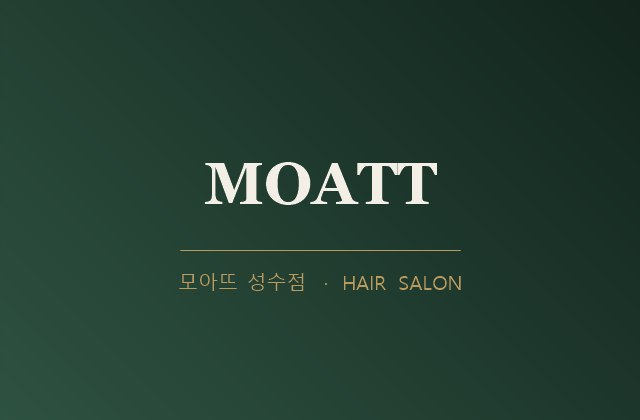
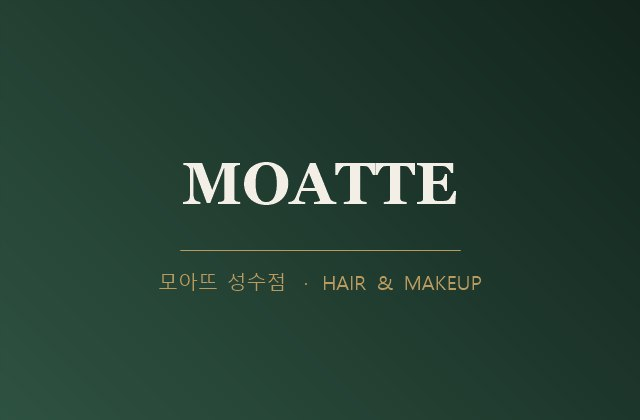
모아뜨 영문표기 MOATTE 수정 + 썸네일 교체

Changed region(s): [[0.2812, 0.3714, 0.7188, 0.4952], [0.25, 0.65, 0.75, 0.7119]]

diff --git a/index.html b/index.html
@@ -1509,7 +1509,7 @@ const HOSPS=[
   {kr:"준오헤어 코엑스도심공항점",en:"JUNO Hair COEX CALT",zh:"JUNO Hair COEX都心机场店",dept_kr:"헤어살롱",dept_zh:"美发沙龙",dept_en:"Hair Salon",cat:'기타서비스',icon:"✂",badge:'NEW',treats_kr:["컷·스타일링","염색","펌","헤어 클리닉","두피 스파"],treats_zh:["剪发造型","染发","烫发","头发护理","头皮SPA"],treats_en:["Cut & Styling","Color","Perm","Hair Clinic","Scalp Spa"],hours:'',link:"https://www.beautyhairsalon.kr/ko",loc:"loc_gangnam",overview_zh:"JUNO Hair COEX都心机场店是1982年创立的韩国代表美发连锁JUNO Hair的COEX分店。提供剪·染·烫·护理·头皮SPA，每天09:30-21:00营业，可英文咨询，外国顾客使用便利。",overview_ko:"준오헤어 코엑스도심공항점은 1982년 시작된 대한민국 대표 헤어 프랜차이즈 준오헤어의 코엑스 지점입니다. 컷·염색·펌·클리닉·두피 스파를 제공하며 매일 09:30~21:00 영업, 영어 상담이 가능해 외국인 고객이 이용하기 편리합니다.",overview_en:"JUNO Hair COEX CALT is the COEX branch of JUNO Hair, Korea’s leading hair franchise since 1982. Cut, color, perm, hair clinic and scalp spa — open daily 09:30-21:00, with English consultations available."},
   {kr:"에코자르딘 코엑스 삼성점",en:"ECO JARDIN COEX Samseong",zh:"ECO JARDIN COEX三成店",dept_kr:"헤어살롱",dept_zh:"美发沙龙",dept_en:"Hair Salon",cat:'기타서비스',icon:"🌿",badge:'NEW',treats_kr:["컷·스타일링","염색","펌","트리트먼트"],treats_zh:["剪发造型","染发","烫发","护理"],treats_en:["Cut & Styling","Color","Perm","Treatment"],hours:'',link:"https://www.youtube.com/@ecojardincoexsamsungbranch",loc:"loc_gangnam",overview_zh:"ECO JARDIN COEX三成店位于COEX内，提供剪·染·烫·护理服务，可与购物·展会行程轻松衔接。",overview_ko:"에코자르딘 코엑스 삼성점은 코엑스에 위치한 헤어살롱으로, 컷·염색·펌·트리트먼트를 제공합니다. 쇼핑·전시 일정과 함께 이용하기 좋은 접근성이 강점입니다.",overview_en:"ECO JARDIN COEX Samseong is a hair salon inside COEX offering cut, color, perm and treatments — easy to combine with shopping or exhibition schedules."},
   {kr:"카마스튜디오",en:"KAMA Studio",zh:"KAMA摄影工作室",dept_kr:"사진 스튜디오",dept_zh:"摄影工作室",dept_en:"Photo Studio",cat:'기타서비스',icon:"📸",badge:'NEW',treats_kr:["웨딩 촬영","프로필 촬영","화보 촬영","가족 촬영"],treats_zh:["婚纱摄影","形象照拍摄","写真拍摄","家庭摄影"],treats_en:["Wedding Shoots","Profile Shoots","Editorial Shoots","Family Shoots"],hours:'',link:"https://www.kamastudio.co.kr/",loc:"loc_apgujeong",overview_zh:"KAMA摄影工作室位于清潭洞，以“光之艺术”为理念，专注婚纱·形象照·写真拍摄，拥有丰富的艺人·偶像写真拍摄经验。",overview_ko:"카마스튜디오(KAMA Studio)는 청담동의 사진 스튜디오로, \"빛의 예술\"을 모토로 웨딩·프로필·화보 촬영을 전문으로 합니다. 연예인·아이돌 화보 촬영 경험이 풍부합니다.",overview_en:"KAMA Studio, in Cheongdam-dong, specializes in wedding, profile and editorial photography under the motto “the art of light”, with extensive experience shooting celebrities and idols."},
-  {kr:"모아뜨 성수점",en:"MOATT Seongsu",zh:"MOATT 圣水店",dept_kr:"헤어살롱",dept_zh:"美发沙龙",dept_en:"Hair Salon",cat:'기타서비스',icon:"💇",badge:'NEW',treats_kr:["커트·펌","염색·클리닉","슬릭펌·맨즈컷","1:1 맞춤 스타일링"],treats_zh:["剪发·烫发","染发·护理","丝滑烫·男士剪发","1:1定制造型"],treats_en:["Cut & Perm","Color & Clinic","Slick Perm & Men's Cut","1:1 Personal Styling"],hours:'10:00~18:00 (월요일 휴무)',link:"https://map.naver.com/p/entry/place/1902188156",loc:"loc_seongsu",overview_zh:"MOATT圣水店是位于首尔林·纛岛站附近的私密高端美发沙龙。通过1:1咨询为顾客提案最合适的发型，仅使用高端产品。采取预约制，可配合施术·拍摄日程安排造型。(周一休)",overview_ko:"모아뜨 성수점은 서울숲·뚝섬역 인근의 프라이빗 프리미엄 헤어살롱입니다. 1:1 상담으로 고객에게 가장 잘 어울리는 스타일을 제안하고 프리미엄 제품만 사용합니다. 시술·촬영 일정에 맞춘 헤어 스타일링을 예약제로 진행합니다. (월요일 휴무)",overview_en:"MOATT Seongsu is a private premium hair salon near Seoul Forest and Ttukseom Station. Through 1:1 consultations it proposes the most flattering style for each client, using premium products only. Sessions are by reservation and can be scheduled around your treatments or photo shoots. (Closed Mondays)"},
+  {kr:"모아뜨 성수점",en:"MOATTE Seongsu",zh:"MOATTE 圣水店",dept_kr:"헤어살롱",dept_zh:"美发沙龙",dept_en:"Hair Salon",cat:'기타서비스',icon:"💇",badge:'NEW',treats_kr:["커트·펌","염색·클리닉","슬릭펌·맨즈컷","1:1 맞춤 스타일링"],treats_zh:["剪发·烫发","染发·护理","丝滑烫·男士剪发","1:1定制造型"],treats_en:["Cut & Perm","Color & Clinic","Slick Perm & Men's Cut","1:1 Personal Styling"],hours:'10:00~18:00 (월요일 휴무)',link:"https://map.naver.com/p/entry/place/1902188156",loc:"loc_seongsu",overview_zh:"MOATTE圣水店是位于首尔林·纛岛站附近的私密高端美发沙龙。通过1:1咨询为顾客提案最合适的发型，仅使用高端产品。采取预约制，可配合施术·拍摄日程安排造型。(周一休)",overview_ko:"모아뜨 성수점은 서울숲·뚝섬역 인근의 프라이빗 프리미엄 헤어살롱입니다. 1:1 상담으로 고객에게 가장 잘 어울리는 스타일을 제안하고 프리미엄 제품만 사용합니다. 시술·촬영 일정에 맞춘 헤어 스타일링을 예약제로 진행합니다. (월요일 휴무)",overview_en:"MOATTE Seongsu is a private premium hair salon near Seoul Forest and Ttukseom Station. Through 1:1 consultations it proposes the most flattering style for each client, using premium products only. Sessions are by reservation and can be scheduled around your treatments or photo shoots. (Closed Mondays)"},
   {kr:'헤어온의원',en:'HairON Clinic',zh:'HairON脱发医院',dept_kr:'탈모 치료 전문',dept_zh:'脱发治疗专科',dept_en:'Hair Loss Clinic',cat:'피부',icon:'💇',badge:'NEW',badgePk:true,treats_kr:['줄기세포 탈모치료','헤어온 FolliOn 주사','두피 순환 개선 주사','두피·모낭 정밀검사','약물치료'],treats_zh:['干细胞脱发治疗','FolliOn毛囊强化针','头皮循环改善注射','头皮·毛囊精密检查','药物治疗'],treats_en:['Stem Cell Hair Loss Treatment','FolliOn Scalp Injection','Scalp Circulation Injection','Scalp & Follicle Diagnosis','Medication'],hours:'Mon-Fri 10:00-20:00 / Sat 10:00-15:00 / Sun·Holiday Closed',link:'https://haironclinic.com/',loc:'loc_gangnam',overview_zh:'HairON脱发医院位于江南站6号出口附近(江南大路373, 弘宇大厦3层), 是脱发治疗专科医院。由内科专科医生孙亨坤院长通过问诊·头皮毛囊检查·血液检查·自主神经检查四步精密诊断找出脱发原因, 并结合干细胞脱发治疗·FolliOn毛囊强化针·头皮循环改善注射·药物治疗进行个性化治疗。',overview_ko:'헤어온의원은 강남역 6번 출구 인근(강남대로 373, 홍우빌딩 3층)의 탈모 치료 전문 의원입니다. 내과 전문의 손형곤 원장이 문진·두피모낭검사·혈액검사·자율신경검사 4단계 정밀 진단으로 탈모 원인을 찾고, 줄기세포 탈모치료·FolliOn 모낭강화주사·두피 순환 개선 주사·약물치료를 원인에 맞게 조합합니다.',overview_en:'HairON Clinic, near Exit 6 of Gangnam Station (3F Hongwoo Bldg., 373 Gangnam-daero), is a hair-loss specialty clinic. Dr. Son Hyung-gon, an internal medicine specialist, identifies the cause through a 4-step diagnosis (consultation, scalp/follicle exam, blood test, autonomic nerve test) and combines stem cell therapy, FolliOn scalp injections, scalp circulation injections and medication.'},
   {kr:'오크우드봄의원',en:'Oakwood Bom Clinic',zh:'Oakwood Bom医院',dept_kr:'산부인과·성형외과·피부·검진 협진',dept_zh:'妇科·整形·皮肤·体检联合诊疗',dept_en:'OB/GYN · Plastic · Skin · Checkup',cat:'여성의학/성형외과/피부/검진',icon:'🌸',badge:'NEW',badgePk:true,treats_kr:['자궁보존 치료(하이푸)','여성성형·요실금','하지정맥류','눈·코성형','필러·보톡스·리프팅','건강검진'],treats_zh:['子宫保留治疗(海扶刀)','女性私密整形·尿失禁','下肢静脉曲张','眼鼻整形','玻尿酸·肉毒·提升','健康体检'],treats_en:['Uterus-Preserving Treatment (HIFU)','Feminine Surgery · Incontinence','Varicose Veins','Eye · Nose Surgery','Filler · Botox · Lifting','Health Checkup'],hours:'Mon·Wed·Thu 10:00-19:00 / Tue·Fri 10:00-20:00 / Sat 10:00-16:00 / Sun Closed',link:'https://owbomclinic.com/',loc:'loc_gangnam',overview_zh:'Oakwood Bom医院位于三成站Oakwood Premier酒店B1(德黑兰路87街46), 是多科室联合诊疗医院。以妇科专科医生·医学博士金仁贤代表院长(原江南CHA医院妇科部长)为核心, 胸外科·外科·内科·整形外科专科医生共同诊疗, 子宫保留海扶刀·女性私密整形·下肢静脉曲张·健康体检到眼鼻整形·玻尿酸·提升, 体检·门诊·手术一站式完成。',overview_ko:'오크우드봄의원은 삼성역 오크우드프리미어 호텔 B1(테헤란로87길 46)에 위치한 협진형 의원으로, 산부인과 전문의 김인현 대표원장(前 강남차병원 산부인과 부장)을 중심으로 흉부외과·외과·내과·성형외과 전문의가 함께 진료합니다. 자궁보존 하이푸·여성성형·하지정맥류·건강검진부터 눈코성형·필러·리프팅까지 한 곳에서 검진·외래·수술이 가능합니다.',overview_en:'Oakwood Bom Clinic, on B1 of Oakwood Premier Hotel by Samseong Station (46 Teheran-ro 87-gil), is a multi-specialty clinic led by Dr. Kim In-hyun, OB/GYN specialist and former head of OB/GYN at Gangnam CHA Hospital, together with thoracic, general, internal medicine and plastic surgery specialists — from uterus-preserving HIFU, feminine surgery, varicose veins and health checkups to eye/nose surgery, fillers and lifting, all in one place.'},
   {kr:'이에스청담성형외과',en:'ES Cheongdam Plastic Surgery',zh:'ES清潭整形外科',dept_kr:'성형외과/피부과',dept_zh:'整形外科/皮肤科',dept_en:'Plastic Surgery / Dermatology',cat:'성형외과/피부',icon:'💎',badge:'NEW',badgePk:true,treats_kr:['눈성형·눈재수술','코성형·코재수술','이마거상·리프팅','가슴성형','지방흡입·지방이식','보톡스·필러'],treats_zh:['眼部整形·眼修复','鼻整形·鼻修复','额头提升·提升','胸部整形','吸脂·脂肪填充','肉毒·玻尿酸'],treats_en:['Eye Surgery · Revision','Rhinoplasty · Revision','Forehead Lift · Lifting','Breast Surgery','Liposuction · Fat Graft','Botox · Filler'],hours:'Mon-Fri 10:00-19:00 / Sat 10:00-16:00 / Sun·Holiday Closed',link:'https://escheongdam.co.kr/',loc:'loc_apgujeong',overview_zh:'ES清潭整形外科&皮肤科位于狎鸥亭罗德奥站4号出口附近(岛山大路435, 三二大厦6层)。顺天乡大学医院整形外科外聘教授李俊浩代表院长与柳亨来院长(整形外科专科医生)亲自主刀自然粘连双眼皮·高难度眼修复、鼻修复、额头提升·提升、胸部·体型整形, 皮肤中心同时提供提升激光·皮肤焕活·肉毒·玻尿酸项目。',overview_ko:'이에스청담성형외과&피부과의원은 압구정로데오역 4번 출구 인근(도산대로 435, 삼이빌딩 6층)의 성형외과·피부과 의원입니다. 순천향대학교병원 성형외과 외래교수인 이준호 대표원장과 류형래 원장(성형외과 전문의)이 자연유착 쌍꺼풀·고난도 눈재수술, 코재수술, 이마거상·리프팅, 가슴·체형성형을 직접 집도하며 피부센터에서 리프팅 레이저·스킨부스터·보톡스·필러를 함께 제공합니다.',overview_en:'ES Cheongdam Plastic Surgery & Dermatology, near Exit 4 of Apgujeong Rodeo Station (6F Sami Bldg., 435 Dosan-daero), is led by Dr. Lee Jun-ho (visiting professor of plastic surgery, Soonchunhyang University Hospital) and Dr. Ryu Hyung-rae, both board-certified plastic surgeons, who personally perform natural-adhesion double eyelid and complex eye revision, rhinoplasty revision, forehead lift and lifting, breast and body contouring; the skin center offers lifting lasers, skin boosters, Botox and fillers.'},
